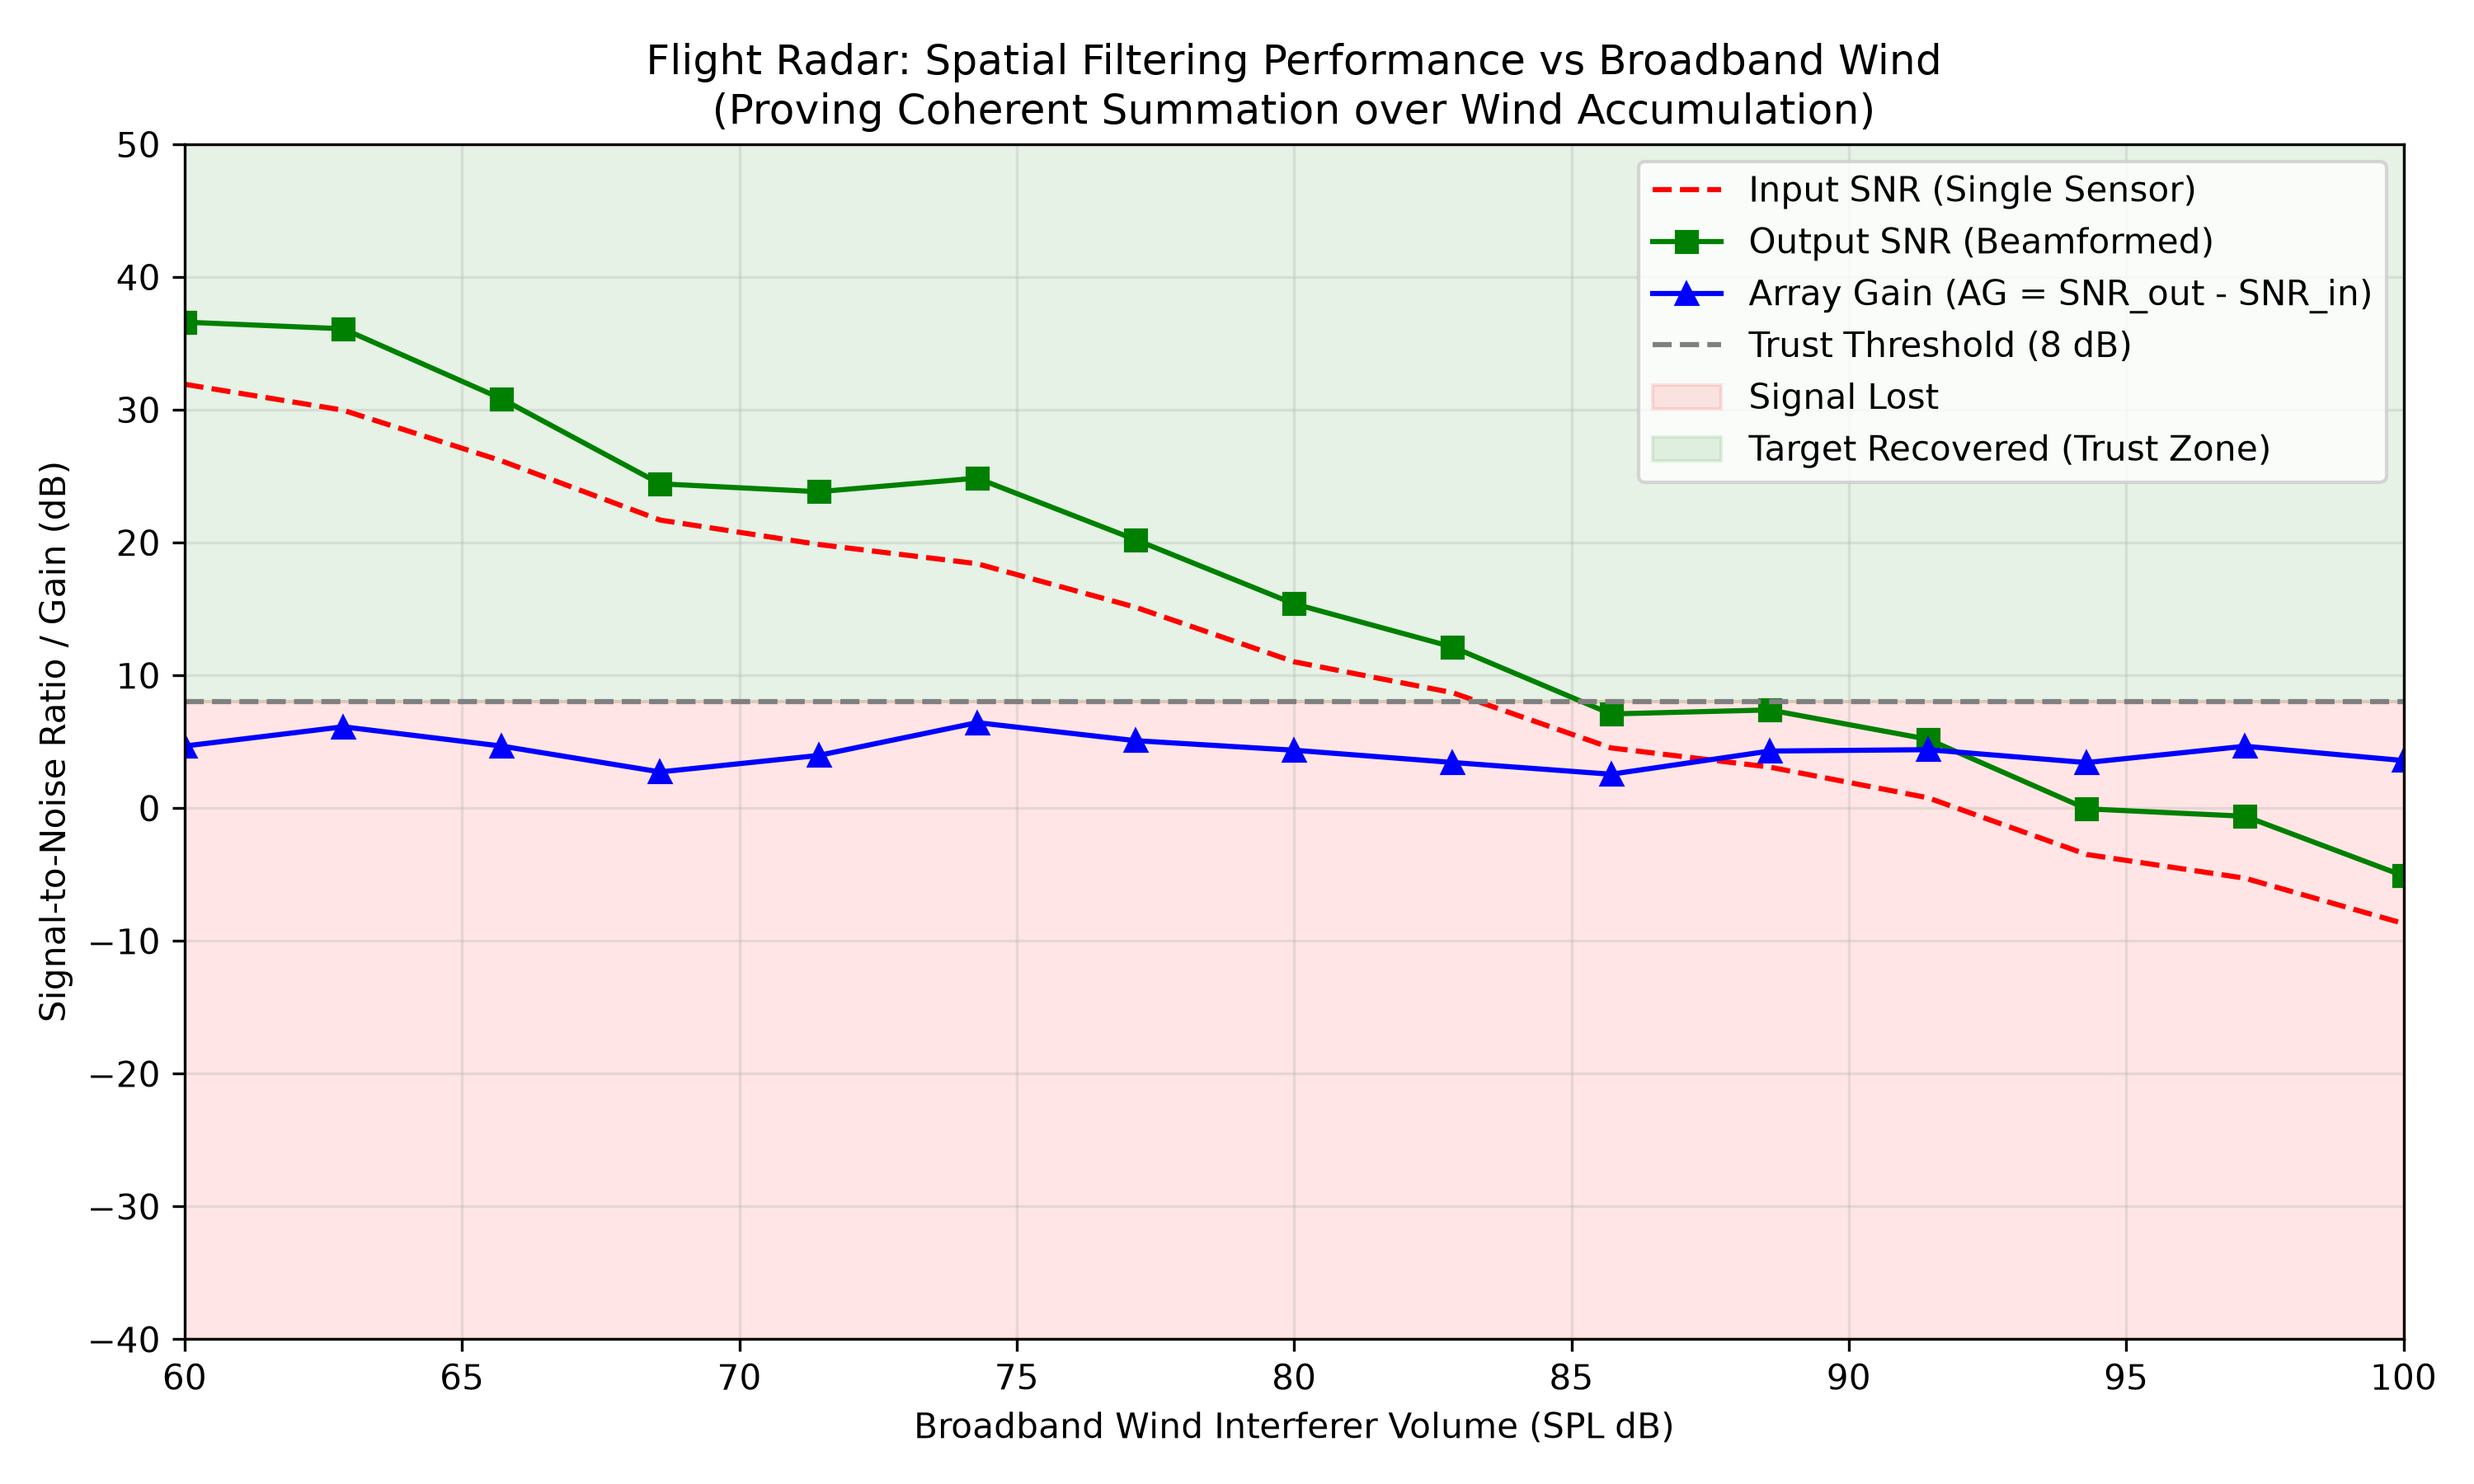
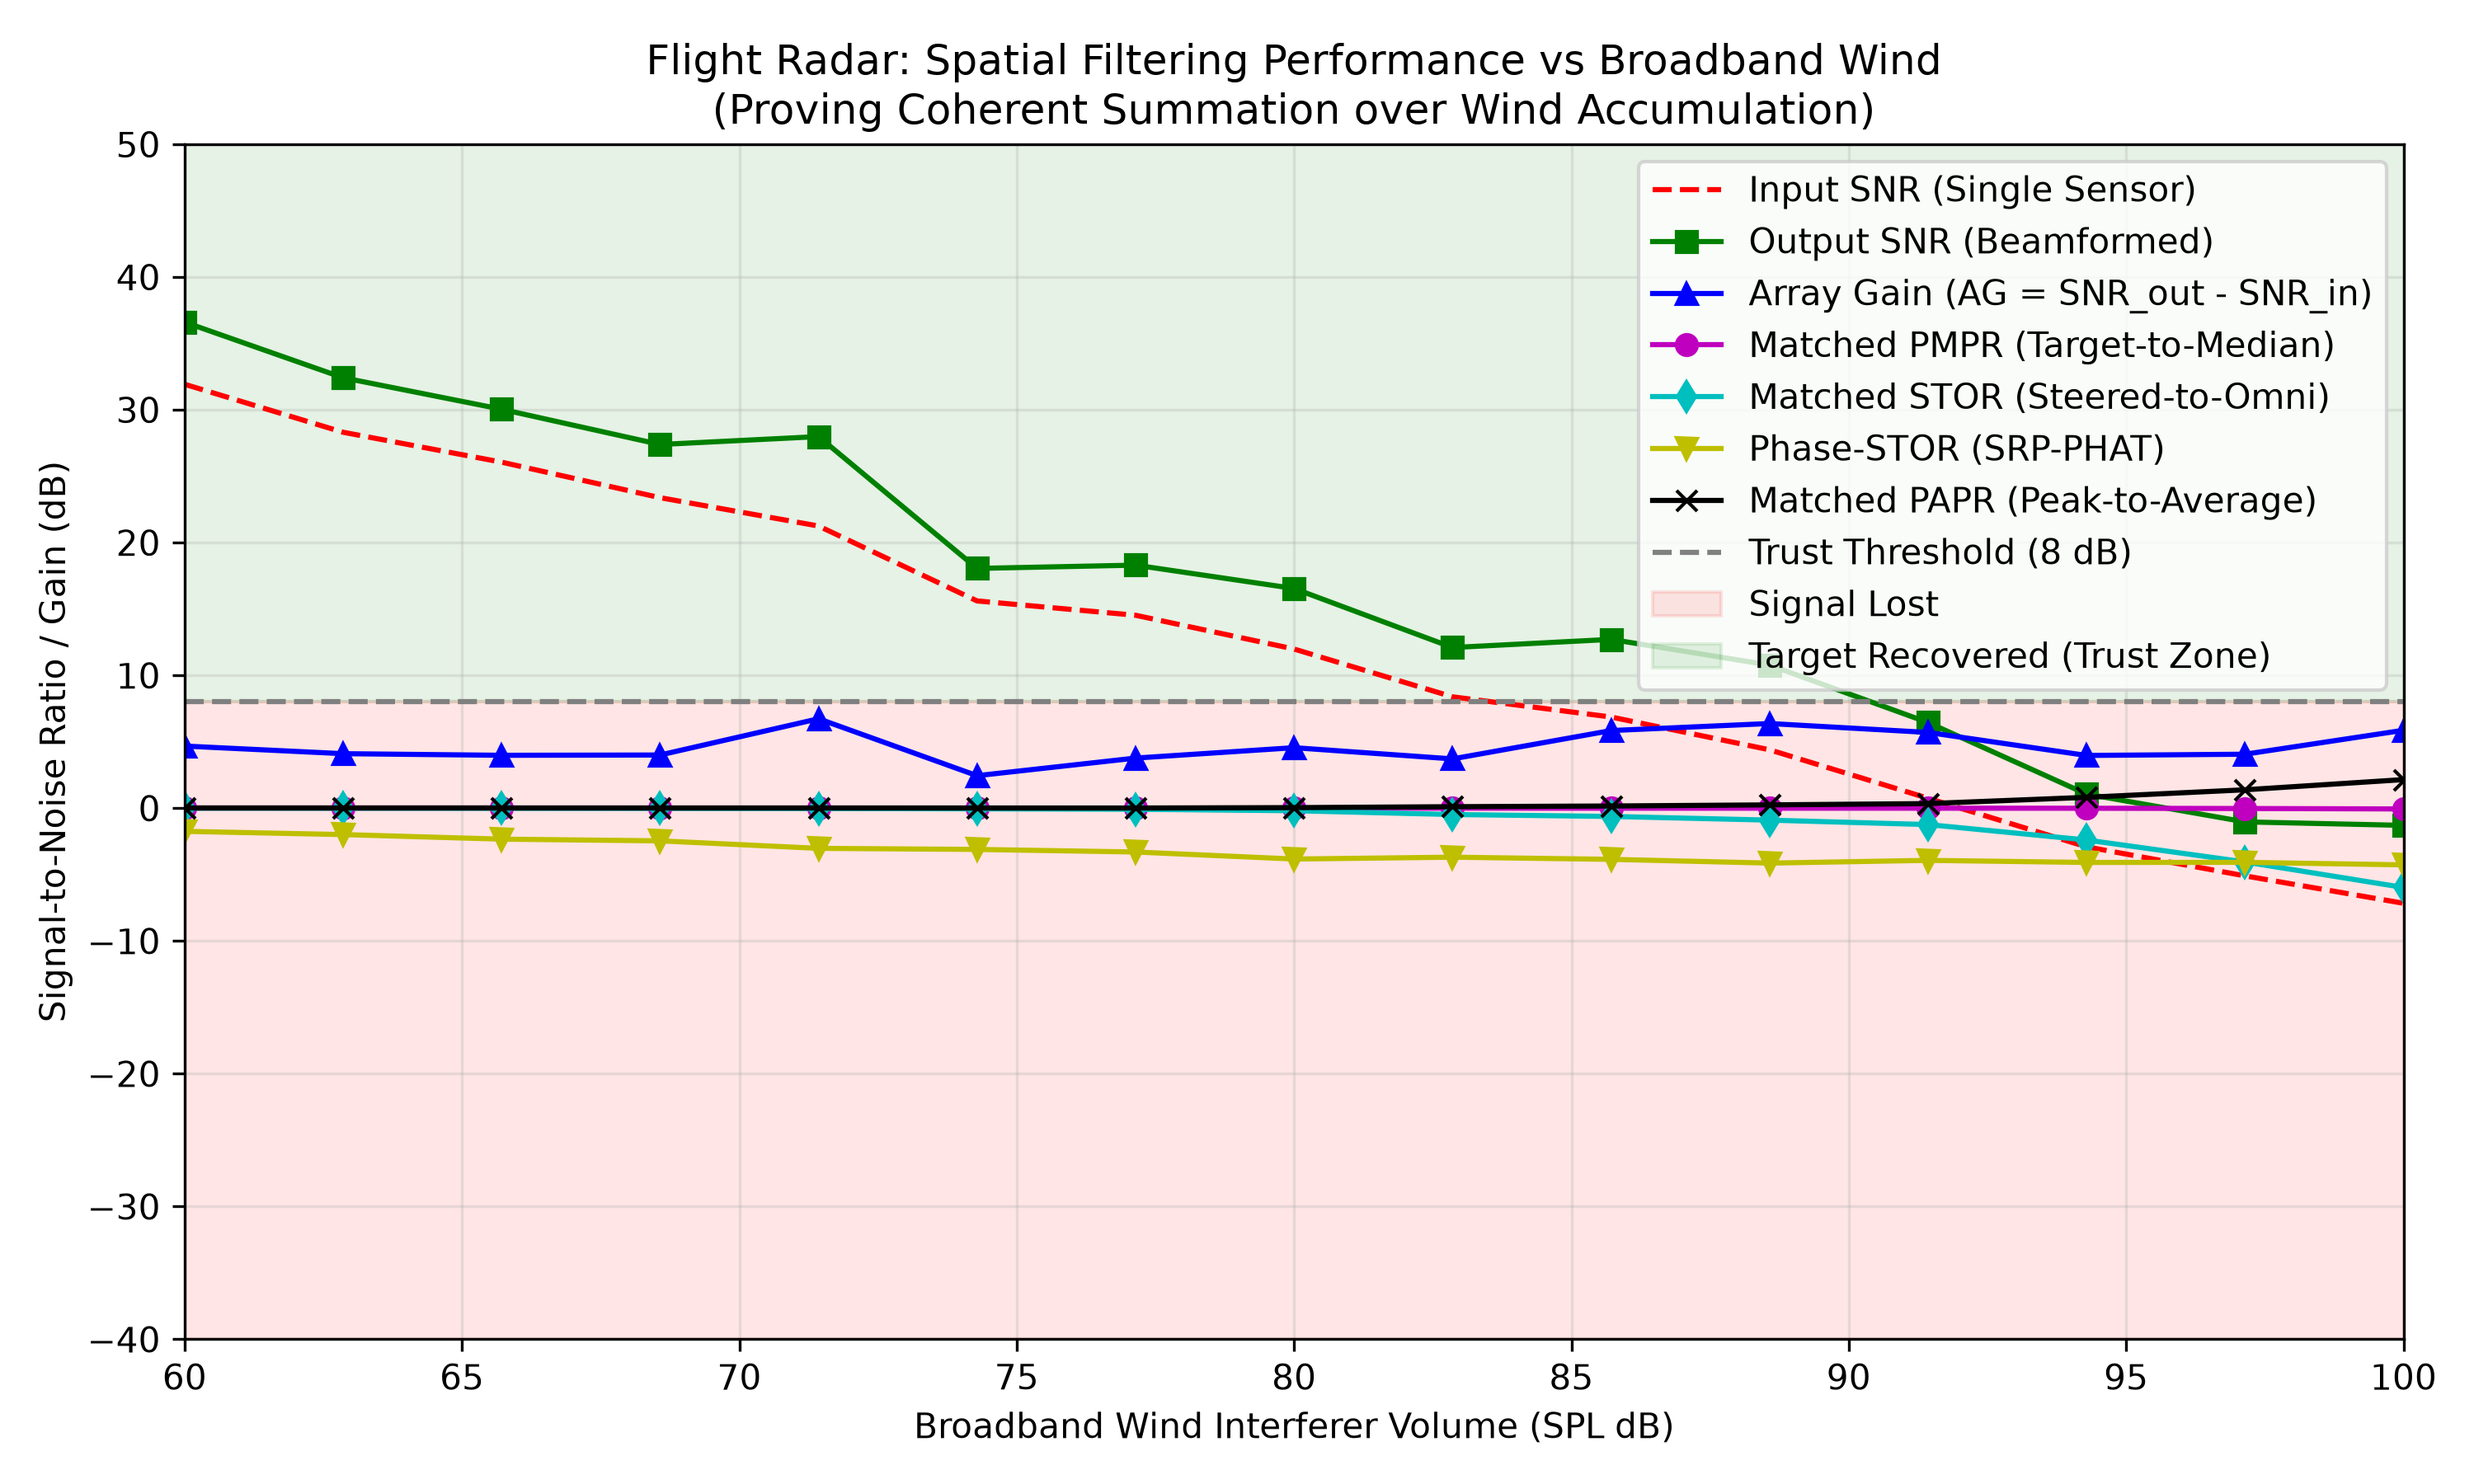
Implement Phase-STOR metric and add to plots

Changed region(s): [[0.062, 0.2178, 0.992, 0.6222], [0.093, 0.2178, 0.403, 0.3733], [0.372, 0.3422, 0.589, 0.4667]]

diff --git a/experiments/generate_signature_plots.py b/experiments/generate_signature_plots.py
@@ -6,7 +6,7 @@ import matplotlib.pyplot as plt
 sys.path.append(os.path.abspath(os.path.join(os.path.dirname(__file__), '..')))
 from acoustic_sim.dsp_array import ArrayGeometry
 from acoustic_sim.dsp_signal import tone_burst, synthesize_array_recording
-from acoustic_sim.beamformer import (delay_and_sum, compute_map_papr, compute_stor,
+from acoustic_sim.beamformer import (delay_and_sum, compute_map_papr, compute_stor, compute_phase_stor,
                                      generate_harmonic_weights, generate_broadband_envelope)
 
 def compute_target_pmpr(power_map_linear, grid_az, target_az):
@@ -99,6 +99,10 @@ def generate_harmonic_fpv_scenario(out_dir):
     snr_in_list = []
     snr_out_list = []
     ag_list = []
+    pmpr_list = []
+    stor_list = []
+    phase_stor_list = []
+    papr_list = []
 
     for w_spl in wind_spl_sweep:
         snr_in, snr_out, ag = get_snr_metrics(arr, sig, harmonic_weights, target_az, target_el, target_dist, target_spl, wind_az, w_spl, fs, env)
@@ -106,10 +110,24 @@ def generate_harmonic_fpv_scenario(out_dir):
         snr_out_list.append(snr_out)
         ag_list.append(ag)
 
+        # Calculate standard metrics on the combined scenario
+        dir_noise_on = {"enabled": True, "spl_db": w_spl, "az": wind_az, "el": 0.0, "r": 20.0}
+        rec_both = synthesize_array_recording(arr, sig, target_az, target_el, target_dist, target_spl, fs, -100, 1000.0, env, directional_noise=dir_noise_on)
+        pm_hm = delay_and_sum(rec_both, arr, fs, grid_az, grid_el, c=343.0, freq_weights=harmonic_weights)
+
+        pmpr_list.append(compute_target_pmpr(pm_hm, grid_az, target_az))
+        stor_list.append(compute_stor(rec_both, arr, fs, target_az, target_el, c=343.0, freq_weights=harmonic_weights))
+        phase_stor_list.append(compute_phase_stor(rec_both, arr, fs, target_az, target_el, c=343.0, freq_weights=harmonic_weights))
+        papr_list.append(compute_map_papr(pm_hm))
+
     plt.figure(figsize=(10, 6))
     plt.plot(wind_spl_sweep, snr_in_list, 'r--', label='Input SNR (Single Sensor)')
     plt.plot(wind_spl_sweep, snr_out_list, 'g-s', label='Output SNR (Beamformed)')
     plt.plot(wind_spl_sweep, ag_list, 'b-^', label='Array Gain (AG = SNR_out - SNR_in)')
+    plt.plot(wind_spl_sweep, pmpr_list, 'm-o', label='Matched PMPR (Target-to-Median)')
+    plt.plot(wind_spl_sweep, stor_list, 'c-d', label='Matched STOR (Steered-to-Omni)')
+    plt.plot(wind_spl_sweep, phase_stor_list, 'y-v', label='Phase-STOR (SRP-PHAT)')
+    plt.plot(wind_spl_sweep, papr_list, 'k-x', label='Matched PAPR (Peak-to-Average)')
 
     plt.axhline(8.0, color='gray', linestyle='--', label='Trust Threshold (8 dB)')
 
@@ -162,6 +180,10 @@ def generate_airplane_envelope_scenario(out_dir):
     snr_in_list = []
     snr_out_list = []
     ag_list = []
+    pmpr_list = []
+    stor_list = []
+    phase_stor_list = []
+    papr_list = []
 
     for w_spl in wind_spl_sweep:
         snr_in, snr_out, ag = get_snr_metrics(arr, sig, envelope, target_az, target_el, target_dist, target_spl, wind_az, w_spl, fs, env)
@@ -169,10 +191,24 @@ def generate_airplane_envelope_scenario(out_dir):
         snr_out_list.append(snr_out)
         ag_list.append(ag)
 
+        # Calculate standard metrics on the combined scenario
+        dir_noise_on = {"enabled": True, "spl_db": w_spl, "az": wind_az, "el": 0.0, "r": 20.0}
+        rec_both = synthesize_array_recording(arr, sig, target_az, target_el, target_dist, target_spl, fs, -100, 1000.0, env, directional_noise=dir_noise_on)
+        pm_env = delay_and_sum(rec_both, arr, fs, grid_az, grid_el, c=343.0, freq_weights=envelope)
+
+        pmpr_list.append(compute_target_pmpr(pm_env, grid_az, target_az))
+        stor_list.append(compute_stor(rec_both, arr, fs, target_az, target_el, c=343.0, freq_weights=envelope))
+        phase_stor_list.append(compute_phase_stor(rec_both, arr, fs, target_az, target_el, c=343.0, freq_weights=envelope))
+        papr_list.append(compute_map_papr(pm_env))
+
     plt.figure(figsize=(10, 6))
     plt.plot(wind_spl_sweep, snr_in_list, 'r--', label='Input SNR (Single Sensor)')
     plt.plot(wind_spl_sweep, snr_out_list, 'g-s', label='Output SNR (Beamformed)')
     plt.plot(wind_spl_sweep, ag_list, 'b-^', label='Array Gain (AG = SNR_out - SNR_in)')
+    plt.plot(wind_spl_sweep, pmpr_list, 'm-o', label='Matched PMPR (Target-to-Median)')
+    plt.plot(wind_spl_sweep, stor_list, 'c-d', label='Matched STOR (Steered-to-Omni)')
+    plt.plot(wind_spl_sweep, phase_stor_list, 'y-v', label='Phase-STOR (SRP-PHAT)')
+    plt.plot(wind_spl_sweep, papr_list, 'k-x', label='Matched PAPR (Peak-to-Average)')
 
     plt.axhline(8.0, color='gray', linestyle='--', label='Trust Threshold (8 dB)')
 

diff --git a/acoustic_sim/beamformer.py b/acoustic_sim/beamformer.py
@@ -138,6 +138,57 @@ def delay_and_sum(recording, array, fs, grid_az, grid_el, c=343.0, spatial_weigh
 
     return power_map
 
+def compute_phase_stor(recording, array, fs, target_az, target_el, c=343.0, freq_weights=None):
+    """
+    Computes Phase-STOR (SRP-PHAT style).
+    Normalizes each frequency bin by its magnitude before steering,
+    making the metric purely phase-dependent. Highly resistant to
+    loud amplitude noise (like wind gusts).
+    """
+    n_sensors, n_samples = recording.shape
+    pos = array.positions
+
+    NFFT = n_samples
+    X = np.fft.rfft(recording, n=NFFT, axis=1)
+    freqs = np.fft.rfftfreq(NFFT, 1.0/fs)
+
+    valid_bins = freqs > 0
+    X = X[:, valid_bins]
+    freqs = freqs[valid_bins]
+
+    # Apply PHAT (Phase Transform) normalization
+    magnitudes = np.abs(X)
+    # Avoid division by zero
+    magnitudes[magnitudes < 1e-10] = 1e-10
+    X_phat = X / magnitudes
+
+    if freq_weights is not None:
+        freq_weights = freq_weights[valid_bins]
+    else:
+        freq_weights = np.ones_like(freqs)
+
+    k_vec = np.array([
+        np.cos(np.deg2rad(target_el)) * np.cos(np.deg2rad(target_az)),
+        np.cos(np.deg2rad(target_el)) * np.sin(np.deg2rad(target_az)),
+        np.sin(np.deg2rad(target_el))
+    ])
+
+    tau = -np.dot(pos, k_vec) / c
+    phase = 2 * np.pi * np.outer(tau, freqs)
+
+    steered_X = X_phat * np.exp(1j * phase)
+    # Average the signals coherently FIRST
+    Y = np.mean(steered_X, axis=0)
+
+    steered_power = np.sum(np.abs(Y)**2 * freq_weights)
+
+    omni_power = np.mean([np.sum(np.abs(X_phat[i])**2 * freq_weights) for i in range(n_sensors)])
+
+    if omni_power <= 0:
+        return 0.0
+
+    return 10 * np.log10(steered_power / omni_power)
+
 def compute_stor(recording, array, fs, target_az, target_el, c=343.0, freq_weights=None):
     """
     Computes Steered-To-Omni Ratio (STOR).
